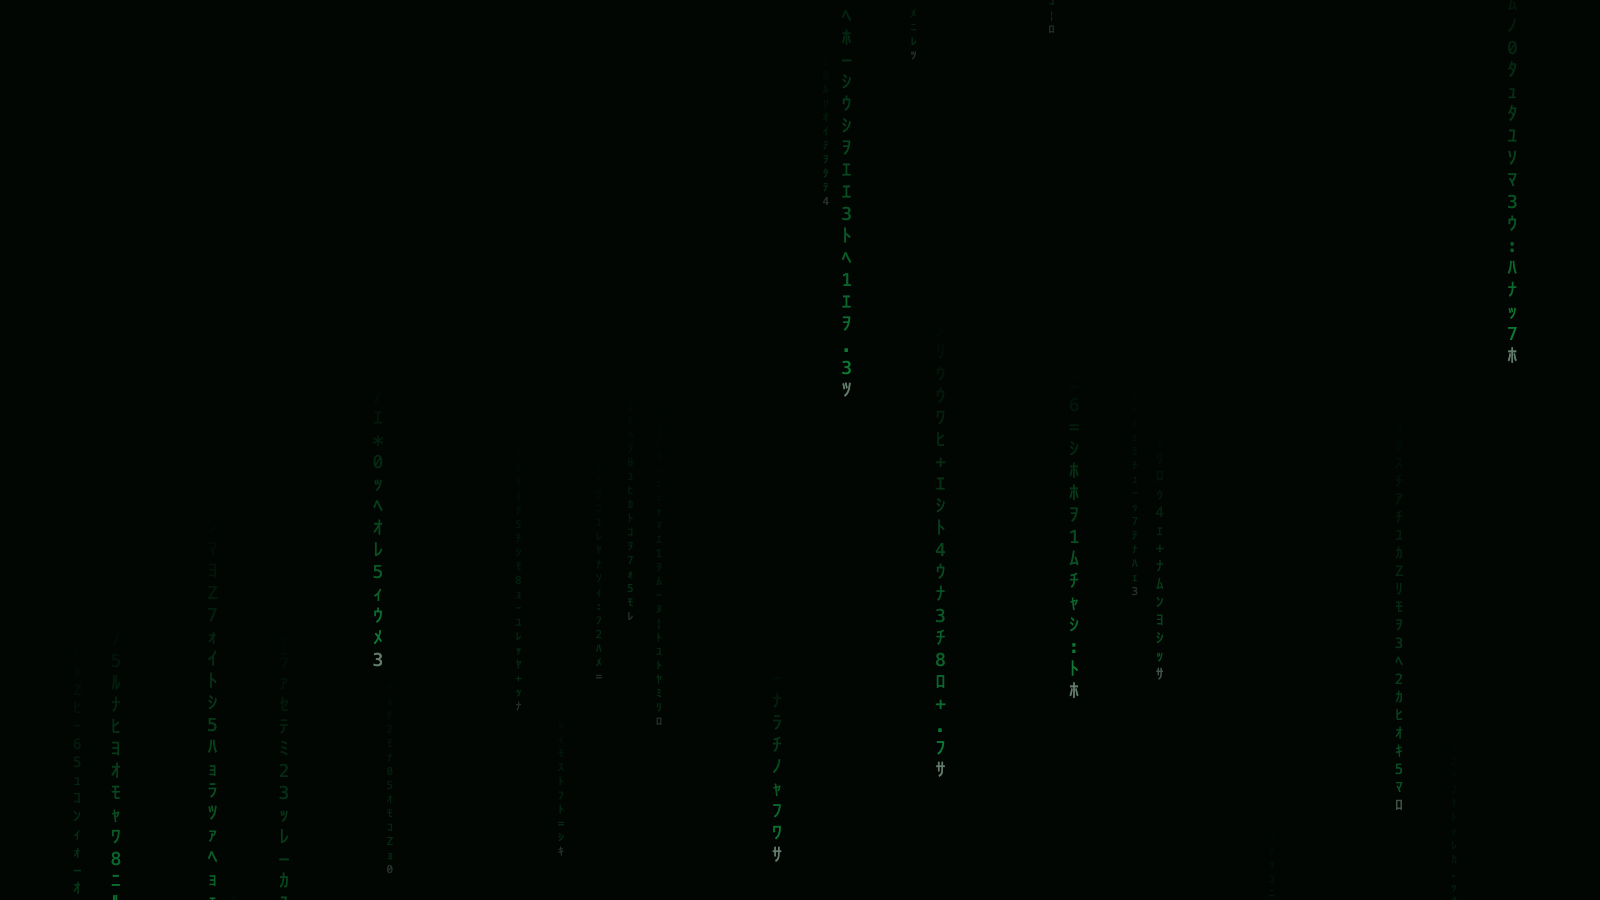
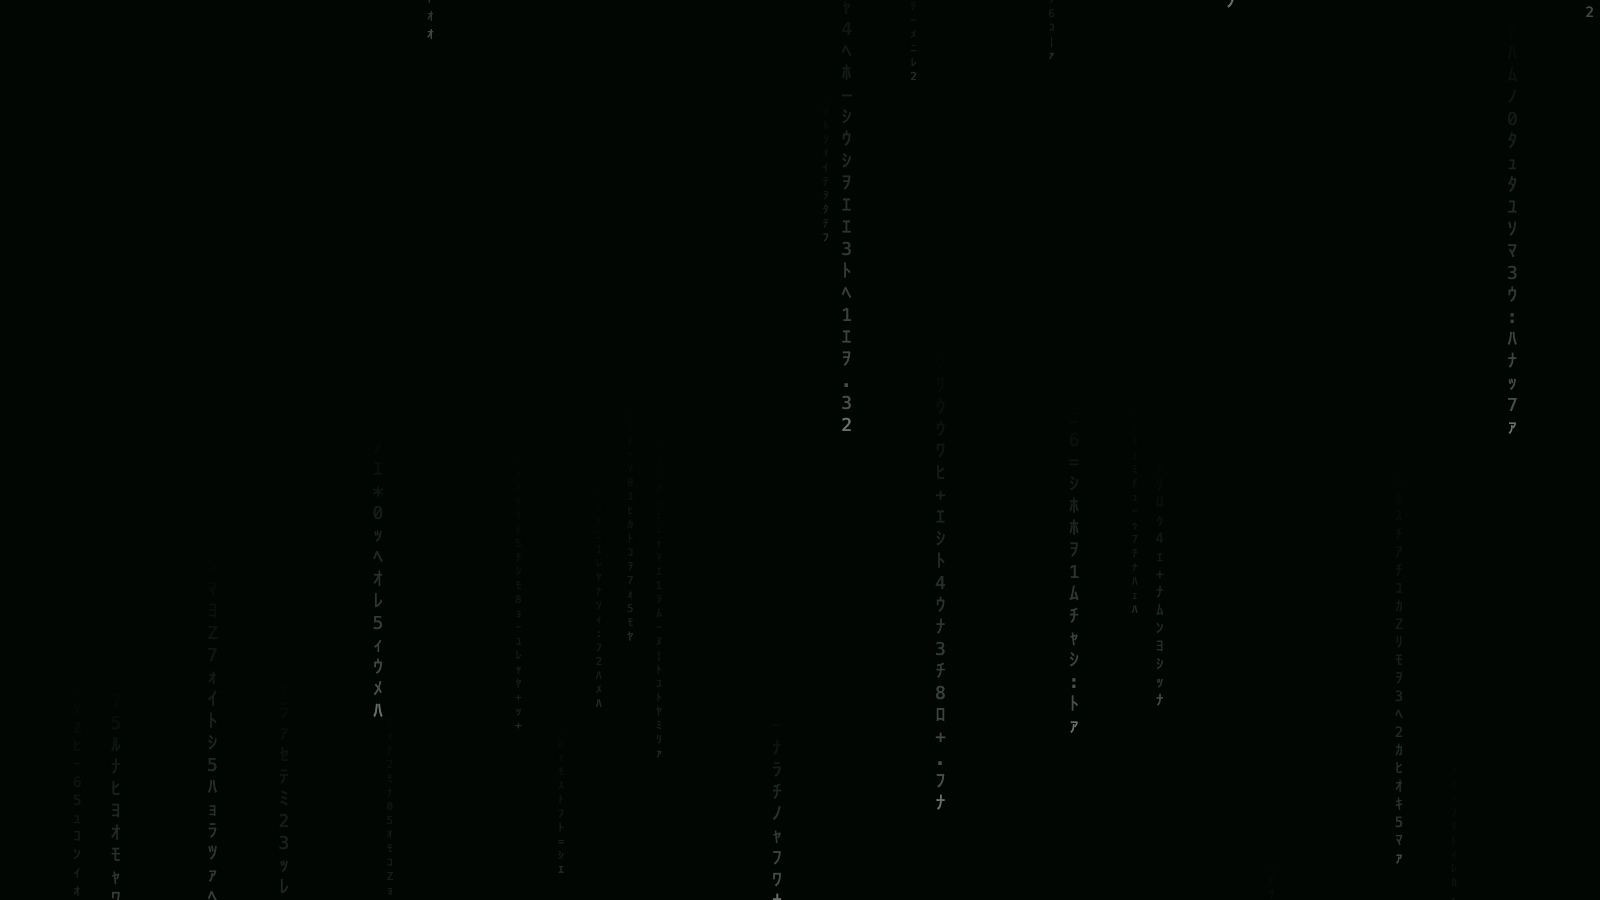
Matrix Rain: grey rain while idle, green while working
The rain's colour now comes from three shared paints in <defs> (body, trail, head). While idle they're a grey with a trace of green; when a turn starts they fade to the green in 1.2 s, and back to grey over 3 s when it ends. Tests check the grey and the fade.

diff --git a/themes/matrix-rain/hooks/scene.ts b/themes/matrix-rain/hooks/scene.ts
@@ -169,9 +169,20 @@ type Fall = { dur: number; begin: number; repeat: string; from?: number }
 
 const topOf = (s: Shape) => -(s.glyphs.length + 2) * LAYERS[s.layer].cell
 
+// What a stream is painted with: its body (the changing letters), its trail
+// (the letters that fade up from the head) and its head.
+type Paint = { body: string; trail: string; head: string }
+
+// A tool call's colour as paint.
+const tinted = (color: string): Paint => ({ body: color, trail: `url(#${gradId(color)})`, head: toWhite(color, 0.7) })
+
+// The rain's own paint: shared paint servers in <defs> (see `rainPaint`), so
+// one colour change there turns every stream grey or green at once.
+const RAIN: Paint = { body: 'url(#rain)', trail: 'url(#rainTrail)', head: 'url(#rainHead)' }
+
 // One stream: a column of glyphs fading up from a bright, scrambling head,
 // hung from its point on the top edge and slid down past the window's foot.
-const stream = (s: Shape, alpha: number, color: string, head: string, fall: Fall) => {
+const stream = (s: Shape, alpha: number, paint: Paint, fall: Fall) => {
   const L = LAYERS[s.layer]
   const n = s.glyphs.length
   const top = topOf(s)
@@ -196,11 +207,11 @@ const stream = (s: Shape, alpha: number, color: string, head: string, fall: Fall
 
   return (
     `<svg x="${s.x.toFixed(2)}%" width="1" height="1" overflow="visible">` +
-    `<g class="${L.cls}" fill="${color}" opacity="${alpha}" transform="translate(0 ${top})">` +
+    `<g class="${L.cls}" fill="${paint.body}" opacity="${alpha}" transform="translate(0 ${top})">` +
     `<animateTransform attributeName="transform" type="translate" from="0 ${from.toFixed(0)}" to="0 ${TRAVEL}" dur="${fall.dur.toFixed(2)}s" begin="${fall.begin.toFixed(2)}s" repeatCount="${fall.repeat}"${freeze}/>` +
-    `<text x="${xs.join(' ')}" y="${ys.join(' ')}" fill="url(#${gradId(color)})">${still}</text>` +
+    `<text x="${xs.join(' ')}" y="${ys.join(' ')}" fill="${paint.trail}">${still}</text>` +
     changing +
-    `<use href="#h${s.head}" y="${(n + 1) * L.cell}" fill="${head}"/>` +
+    `<use href="#h${s.head}" y="${(n + 1) * L.cell}" fill="${paint.head}"/>` +
     `</g></svg>`
   )
 }
@@ -215,7 +226,7 @@ const phaseAt = (c: Column, v: number) => {
 }
 
 const steady = (c: Column, v: number, k: number) =>
-  stream(c, LAYERS[c.layer].alpha, GREEN, GREEN_HEAD, {
+  stream(c, LAYERS[c.layer].alpha, RAIN, {
     dur: periodOf(c) * k,
     begin: -phaseAt(c, v) * k,
     repeat: 'indefinite',
@@ -226,7 +237,7 @@ const steady = (c: Column, v: number, k: number) =>
 const joining = (c: Column, view: View, now: number) => {
   const p = periodOf(c)
 
-  return stream(c, LAYERS[c.layer].alpha, GREEN, GREEN_HEAD, {
+  return stream(c, LAYERS[c.layer].alpha, RAIN, {
     dur: p,
     begin: view.tR + (p - phaseAt(c, view.vR)) - now,
     repeat: 'indefinite',
@@ -248,7 +259,7 @@ const leaving = (c: Column, view: View, now: number) => {
   }
   const top = topOf(c)
 
-  return stream(c, LAYERS[c.layer].alpha, GREEN, GREEN_HEAD, {
+  return stream(c, LAYERS[c.layer].alpha, RAIN, {
     dur: left,
     begin: view.tR - now,
     repeat: '1',
@@ -262,7 +273,7 @@ const leaving = (c: Column, view: View, now: number) => {
 const burst = (b: Burst, now: number) => {
   const r = rng(b.seed)
   const age = now - b.at
-  const head = toWhite(b.color, 0.7)
+  const paint = tinted(b.color)
   let out = ''
   for (let j = 0; j < b.size; j++) {
     const x = 1 + r() * 98
@@ -273,24 +284,41 @@ const burst = (b: Burst, now: number) => {
     if (age > delay + dur * 2) {
       continue
     }
-    out += stream(s, 0.95, b.color, head, { dur, begin: delay - age, repeat: '2' })
+    out += stream(s, 0.95, paint, { dur, begin: delay - age, repeat: '2' })
   }
 
   return out
 }
 
-// Idle is muted: dimmer rain and no green light behind it. A turn brings the
-// light up quickly; when it ends the light fades out slowly.
+// Idle is muted: dimmer, grey rain and no green light behind it. A turn brings
+// the green and the light up quickly; when it ends they fade out slowly.
 const OPACITY: Record<Mood, number> = { idle: 0.55, busy: 1 }
 const GLOW: Record<Mood, number> = { idle: 0, busy: 1 }
 const FADE: Record<Mood, number> = { idle: 3, busy: 1.2 }
+// A grey with a trace of the green in it, so idle still reads as the same rain.
+const BODY: Record<Mood, string> = { idle: '#93a89a', busy: GREEN }
+const HEAD: Record<Mood, string> = { idle: '#dce6df', busy: GREEN_HEAD }
 
 // An attribute easing from the last mood's value to this one's, from when the
 // window saw the change; nothing when the mood didn't change.
-const ease = (view: View, now: number, of: Record<Mood, number>) =>
+const ease = (view: View, now: number, of: Record<Mood, number | string>, attribute = 'opacity') =>
   view.from === view.mood
     ? ''
-    : `<animate attributeName="opacity" from="${of[view.from]}" to="${of[view.mood]}" dur="${FADE[view.mood]}s" begin="${(view.tR - now).toFixed(2)}s" fill="freeze"/>`
+    : `<animate attributeName="${attribute}" from="${of[view.from]}" to="${of[view.mood]}" dur="${FADE[view.mood]}s" begin="${(view.tR - now).toFixed(2)}s" fill="freeze"/>`
+
+const stop = (view: View, now: number, of: Record<Mood, string>, offset: string, opacity: string) =>
+  `<stop offset="${offset}" stop-color="${of[view.mood]}" stop-opacity="${opacity}">${ease(view, now, of, 'stop-color')}</stop>`
+
+// The paint servers every rain stream uses (`RAIN`). One stop is a solid
+// colour; in user space it paints any shape, however small its box.
+const rainPaint = (view: View, now: number) =>
+  `<linearGradient id="rain" gradientUnits="userSpaceOnUse">${stop(view, now, BODY, '0', '1')}</linearGradient>` +
+  `<linearGradient id="rainHead" gradientUnits="userSpaceOnUse">${stop(view, now, HEAD, '0', '1')}</linearGradient>` +
+  `<linearGradient id="rainTrail" x1="0" y1="0" x2="0" y2="1">` +
+  stop(view, now, BODY, '0', '0') +
+  stop(view, now, BODY, '.55', '.55') +
+  stop(view, now, BODY, '1', '1') +
+  `</linearGradient>`
 
 export const scene = (view: View, bursts: Burst[], now: number): string => {
   const k = K[view.mood]
@@ -320,7 +348,7 @@ text{text-anchor:middle;font-weight:500}
 .a{font-size:11px}.b{font-size:14px}.c{font-size:18px}
 </style>
 <defs>
-${gradient(GREEN)}
+${rainPaint(view, now)}
 ${colors.map(gradient).join('\n')}
 <radialGradient id="glow" cx="50%" cy="35%" r="80%"><stop offset="0" stop-color="#0a3a1c" stop-opacity=".5"/><stop offset="1" stop-color="#000000" stop-opacity="0"/></radialGradient>
 ${CELLS[view.mood]}

diff --git a/themes/matrix-rain/tests/matrix-rain.test.tsx b/themes/matrix-rain/tests/matrix-rain.test.tsx
@@ -20,6 +20,9 @@ test('the backdrop is one slow Svg while idle', async ($, on) => {
   expect(svg.props.alt).toMatch(/slowly/)
   // Muted: the green light behind the rain is off.
   expect(svg.props.source).toMatch(/fill="url\(#glow\)" opacity="0"/)
+  // The rain is grey while idle, through the shared paint every stream uses.
+  expect(svg.props.source).toMatch(/<linearGradient id="rain" [^>]*><stop offset="0" stop-color="#93a89a"/)
+  expect(svg.props.source).toMatch(/fill="url\(#rain\)"/)
   // The letters change at the rain's idle pace: heads cycle in seconds.
   expect(headCycles(svg.props.source).length).toBe(14)
   expect(Math.min(...headCycles(svg.props.source))).toBeGreaterThan(3.5)
@@ -49,6 +52,8 @@ test('a turn makes it pour, and a tool call drops streams in its colour', async 
 
   const svg = (await ui.find({ type: 'Svg' })) as any
   expect(svg.props.alt).toMatch(/fast/)
+  // The rain turns green as the turn starts.
+  expect(svg.props.source).toMatch(/attributeName="stop-color" from="#93a89a" to="#19ff6a"/)
   // The light comes up as the turn starts.
   expect(svg.props.source).toMatch(/fill="url\(#glow\)" opacity="1"><animate attributeName="opacity" from="0" to="1"/)
   expect(svg.props.source).toMatch(/#26e7ff/)

diff --git a/themes/matrix-rain/README.md b/themes/matrix-rain/README.md
@@ -12,8 +12,8 @@ A theme for the Claude desktop app: green code raining down behind the conversat
 
 The pictures are the theme's own scene, rendered by `node tools/make-previews.mts`. In the app, the chat sits on a frosted panel down the middle, so the rain shows most in the margins.
 
-- **Idle:** muted. About fifty dim streams drift down very slowly, in three depths (small and faint at the back, larger at the front), on plain black.
-- **While Claude works:** a green light comes up behind the rain, the rain brightens and speeds up about fourteen times, and more streams join from the top. When the reply ends, the extra streams finish their fall and the rain slows again, with no jump.
+- **Idle:** muted. About fifty dim, grey streams drift down very slowly, in three depths (small and faint at the back, larger at the front), on plain black.
+- **While Claude works:** the rain turns green, a green light comes up behind it, and it brightens and speeds up about fourteen times, with more streams joining from the top. When the reply ends, the extra streams finish their fall and the rain slows again, with no jump.
 - **Letters change as they fall:** a few letters along each trail flicker to new glyphs, and each stream's bright head scrambles. They change at the rain's own pace: slowly while idle, fast while Claude works.
 - **Tool calls:** every tool call drops a handful of fast, bright streams in a colour for the kind of work:
 
